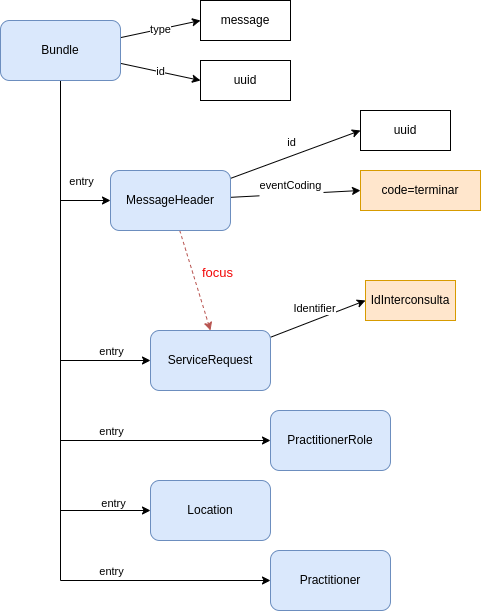
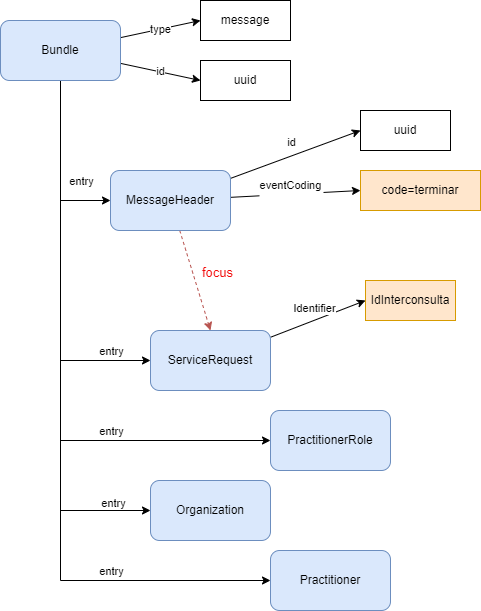
modificado eventoTerminar.md

diff --git a/input/pagecontent/EventoTerminar.md b/input/pagecontent/EventoTerminar.md
@@ -25,11 +25,11 @@ Los codigos de evento deben ser incluidos en el recurso **MessageHeader.evenCodi
 
 Los recursos usados en este evento son los siguientes:
 
-* [ServiceRequest](link): Recurso principal para reflejar los datos de la interconsulta
-* [MessageHeader](link): lorem
-* [PractitionerRole](link): lorem
-* [Practitioner](link): lorem
-* [Location](link): lorem
+* [ServiceRequestLE](StructureDefinition-ServiceRequestLE.html): Recurso principal para reflejar los datos de la interconsulta (MessageHeader.focus)
+* [MessageHeaderLE](StructureDefinition-MessageHeaderLE.html): Recurso que contiene datos relacionados al mensaje, como el autor, tipo de evento y foco del mensaje.
+* [PractitionerRoleLE](StructureDefinition-PractitionerRoleLE.html): Recurso que permite reflejar la información relacionada al invididuo autor del proceso (MessageHeader.author)
+* [Practitioner](StructureDefinition-PractitionerLE.html): Recurso que permite reflejar la informacion asociada a la identificación del profesional de la salud.
+* [OrganizationLE](StructureDefinition-OrganizationLE.html): Recurso que permite relacionar la interconsulta con el establecimiento de destino
 
 ## Relaciones de Recursos
 
@@ -49,6 +49,18 @@ Diagrama de Secuencia por definir
 ## Consideraciones
 
 Las validaciones internas que debe tener el implementador deben considerar cumplir con el conjunto de datos detallado en [Conjunto mínimo de datos](http://link)
+
+
+
+
+
+* Debe incluir el recurso [BundleInicioLE](StructureDefinition-BundleTerminarLE.html)
+* Debe incluir el recurso [MessageHeaderLE](StructureDefinition-MessageHeaderLE.html) con el valor **MessageHeader.evenCoding.code=terminar** 
+* Debe incluir el recurso [ServiceRequestLE](StructureDefinition-ServiceRequestLE.html) con los valores de **ServiceRequest.status=draft** **ServiceRequest.intent=proposal** 
+* Debe incluir el recurso [PractitionerRoleLE](StructureDefinition-PractitionerRoleLE.html)
+* Debe incluir el recurso [OrganizationLE](StructureDefinition-OrganizationLE.html)
+* Debe incluir el recurso [PractitionerLE](StructureDefinition-PractitionerLE.html)
+
 
 ## Notas
 
